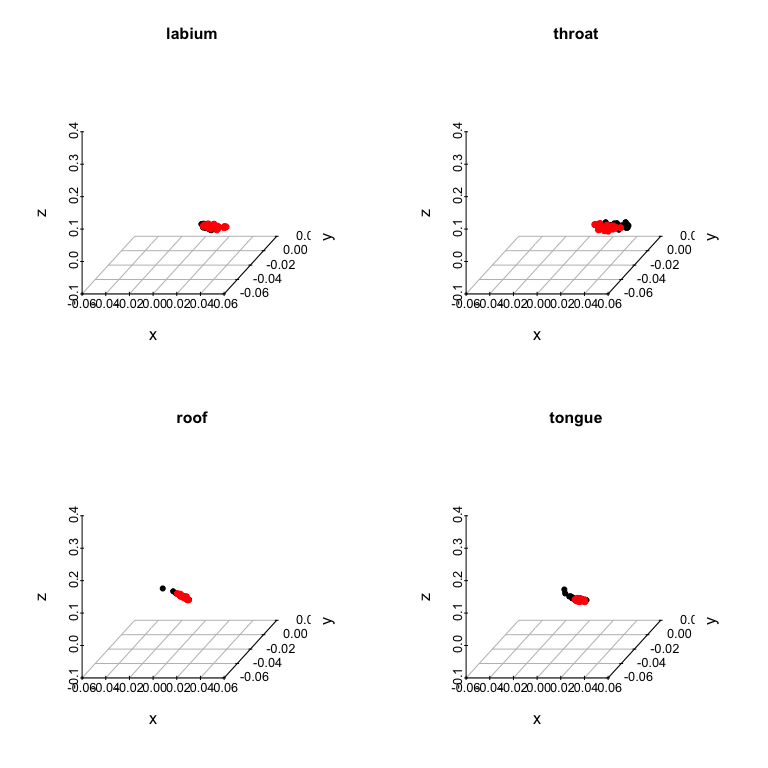
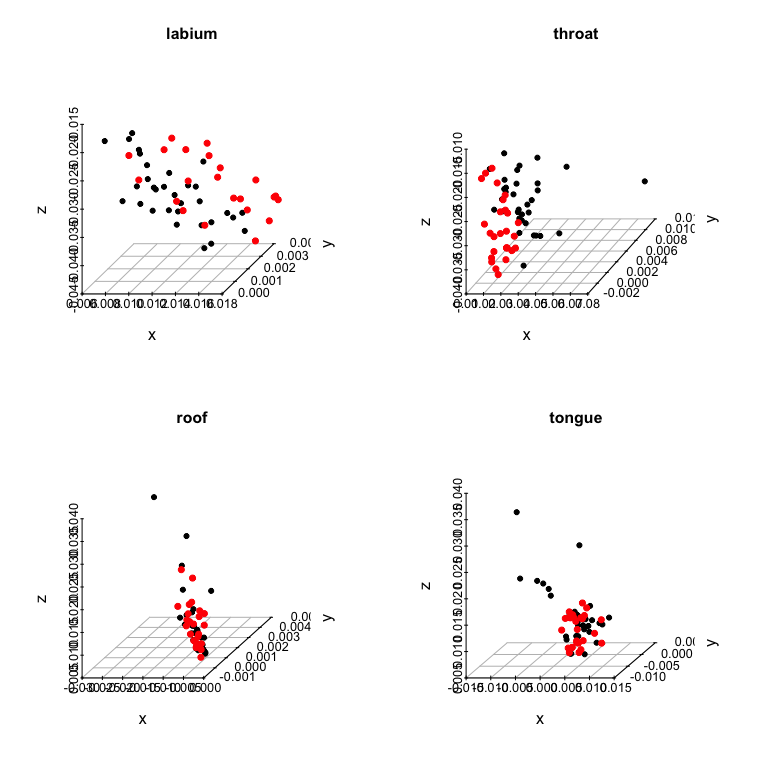
Fix figs

diff --git a/lizardeg.md b/lizardeg.md
@@ -1,3 +1,52 @@
+``` r
+require(pavo)
+```
+
+    ## Loading required package: pavo
+
+    ## Warning: package 'pavo' was built under R version 3.2.4
+
+    ## Loading required package: rgl
+
+``` r
+require(scatterplot3d)
+```
+
+    ## Loading required package: scatterplot3d
+
+    ## Warning: package 'scatterplot3d' was built under R version 3.2.5
+
+``` r
+require(ggplot2)
+```
+
+    ## Loading required package: ggplot2
+
+``` r
+require(gridExtra)
+```
+
+    ## Loading required package: gridExtra
+
+``` r
+require(vegan)
+```
+
+    ## Loading required package: vegan
+
+    ## Warning: package 'vegan' was built under R version 3.2.4
+
+    ## Loading required package: permute
+
+    ## Loading required package: lattice
+
+    ## This is vegan 2.3-5
+
+``` r
+knitr::opts_chunk$set(echo = TRUE, 
+                      fig.path='output/figures/lizardeg/lizardeg_fig')
+```
+
 Example w/ real data
 ====================
 
@@ -5,30 +54,59 @@ Example w/ real data
 
 Calculate deltaS
 
+``` r
+specs <- list(lab = as.rspec(read.csv('data/lab.csv'), interp = FALSE),
+              throat = as.rspec(read.csv('data/throat.csv'), interp = FALSE),
+              roof = as.rspec(read.csv('data/roof.csv'), interp = FALSE),
+              tongue = as.rspec(read.csv('data/tongue.csv'), interp = FALSE))
+```
+
     ## wavelengths found in column 1 
     ## wavelengths found in column 1 
     ## wavelengths found in column 1 
     ## wavelengths found in column 1
+
+``` r
+# Ctenophorus ornatus
+liz_vis <- sensmodel(c(360, 440, 493, 571)) 
+names(liz_vis) <- c('wl', 'u', 's', 'm', 'l')
+
+models <- lapply(specs, function(x) vismodel(x, visual = liz_vis, relative = FALSE, qcatch = "fi", scale = 10000))  # for deltaS
+models_rel <- lapply(specs, function(x) vismodel(x, visual = liz_vis, relative = TRUE, qcatch = "fi", scale = 10000))  # for tcs plotting
+
+deltaS <- lapply(models, function(x) coldist(x, achro = FALSE, n1 = 1, n2 = 1, n3 = 3.5, n4 = 6, v = 0.10))
+
+# To add group labels (because I'm bad at R and I feel bad)
+comp_lab <- function(x){
+  x$comparison[grepl('F', x$patch1) & grepl('F', x$patch2)] <- 'intra.F'
+  x$comparison[grepl('M', x$patch1) & grepl('M', x$patch2)] <- 'intra.M'
+  x$comparison[grepl('M', x$patch1) & grepl('F', x$patch2)] <- 'inter'
+  x$comparison[grepl('F', x$patch1) & grepl('M', x$patch2)] <- 'inter'
+  x
+}
+
+# ew
+deltaS$lab <- comp_lab(deltaS$lab) 
+deltaS$throat <- comp_lab(deltaS$throat)
+deltaS$roof <- comp_lab(deltaS$roof)
+deltaS$tongue <- comp_lab(deltaS$tongue)
+```
 
 Plot 'em
 
 ``` r
 par(pty="s", mfrow = c(2, 2))
 
-sp3d <- scatterplot3d(suppressWarnings(tcs(models_rel$lab[grepl("M", rownames(models_rel$lab)), ])[, c('x','y','z')]), pch=19,
-                      xlim=c(-0.05, 0.05), ylim=c(-0.05,0.02), zlim=c(-0.1, 0.4), box=F, main = 'labium')
+sp3d <- scatterplot3d(suppressWarnings(tcs(models_rel$lab[grepl("M", rownames(models_rel$lab)), ])[, c('x','y','z')]), pch=19, box=F, main = 'labium')
 sp3d$points3d(suppressWarnings(tcs(models_rel$lab[grepl("F", rownames(models_rel$lab)), ])[, c('x','y','z')]), col='red',pch=19)
 
-sp3d <- scatterplot3d(suppressWarnings(tcs(models_rel$throat[grepl("M", rownames(models_rel$throat)), ])[, c('x','y','z')]), pch=19,
-                      xlim=c(-0.05, 0.05), ylim=c(-0.05,0.02), zlim=c(-0.1, 0.4), box=F, main = 'throat')
+sp3d <- scatterplot3d(suppressWarnings(tcs(models_rel$throat[grepl("M", rownames(models_rel$throat)), ])[, c('x','y','z')]), pch=19, box=F, main = 'throat')
 sp3d$points3d(suppressWarnings(tcs(models_rel$throat[grepl("F", rownames(models_rel$throat)), ])[, c('x','y','z')]), col='red',pch=19)
 
-sp3d <- scatterplot3d(suppressWarnings(tcs(models_rel$roof[grepl("M", rownames(models_rel$roof)), ])[, c('x','y','z')]), pch=19,
-                      xlim=c(-0.05, 0.05), ylim=c(-0.05,0.02), zlim=c(-0.1, 0.4), box=F, main = 'roof')
+sp3d <- scatterplot3d(suppressWarnings(tcs(models_rel$roof[grepl("M", rownames(models_rel$roof)), ])[, c('x','y','z')]), pch=19, box=F, main = 'roof')
 sp3d$points3d(suppressWarnings(tcs(models_rel$roof[grepl("F", rownames(models_rel$roof)), ])[, c('x','y','z')]), col='red',pch=19)
 
-sp3d <- scatterplot3d(suppressWarnings(tcs(models_rel$tongue[grepl("M", rownames(models_rel$tongue)), ])[, c('x','y','z')]), pch=19,
-                      xlim=c(-0.05, 0.05), ylim=c(-0.05,0.02), zlim=c(-0.1, 0.4), box=F, main = 'tongue')
+sp3d <- scatterplot3d(suppressWarnings(tcs(models_rel$tongue[grepl("M", rownames(models_rel$tongue)), ])[, c('x','y','z')]), pch=19, box=F, main = 'tongue')
 sp3d$points3d(suppressWarnings(tcs(models_rel$tongue[grepl("F", rownames(models_rel$tongue)), ])[, c('x','y','z')]), col='red',pch=19)
 ```
 
@@ -72,14 +150,16 @@ sessionInfo()
     ## [1] stats     graphics  grDevices utils     datasets  methods   base     
     ## 
     ## other attached packages:
-    ## [1] gridExtra_2.0.0      ggplot2_2.0.0        scatterplot3d_0.3-37
-    ## [4] pavo_0.5-5           rgl_0.95.1441       
+    ## [1] vegan_2.3-5          lattice_0.20-33      permute_0.9-0       
+    ## [4] gridExtra_2.0.0      ggplot2_2.0.0        scatterplot3d_0.3-37
+    ## [7] pavo_0.5-5           rgl_0.95.1441       
     ## 
     ## loaded via a namespace (and not attached):
-    ##  [1] Rcpp_0.12.3      knitr_1.12.3     magrittr_1.5     maps_3.1.0      
-    ##  [5] magic_1.5-6      munsell_0.4.3    colorspace_1.2-6 geometry_0.3-6  
-    ##  [9] plyr_1.8.3       stringr_1.0.0    tools_3.2.3      grid_3.2.3      
-    ## [13] gtable_0.1.2     htmltools_0.3    yaml_2.1.13      digest_0.6.9    
-    ## [17] reshape2_1.4.1   mapproj_1.2-4    formatR_1.2.1    rcdd_1.1-10     
-    ## [21] evaluate_0.8     rmarkdown_0.9.5  labeling_0.3     stringi_1.0-1   
-    ## [25] scales_0.3.0
+    ##  [1] Rcpp_0.12.3      cluster_2.0.3    knitr_1.12.3     magrittr_1.5    
+    ##  [5] MASS_7.3-45      maps_3.1.0       magic_1.5-6      munsell_0.4.3   
+    ##  [9] colorspace_1.2-6 geometry_0.3-6   plyr_1.8.3       stringr_1.0.0   
+    ## [13] tools_3.2.3      parallel_3.2.3   grid_3.2.3       nlme_3.1-124    
+    ## [17] gtable_0.1.2     mgcv_1.8-9       htmltools_0.3    yaml_2.1.13     
+    ## [21] digest_0.6.9     Matrix_1.2-3     reshape2_1.4.1   mapproj_1.2-4   
+    ## [25] formatR_1.2.1    rcdd_1.1-10      evaluate_0.8     rmarkdown_0.9.5 
+    ## [29] labeling_0.3     stringi_1.0-1    scales_0.3.0
